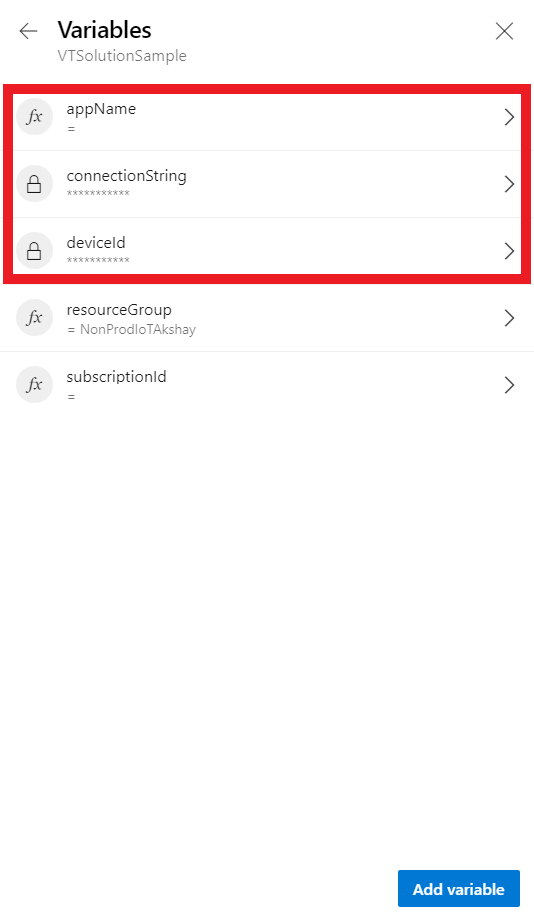
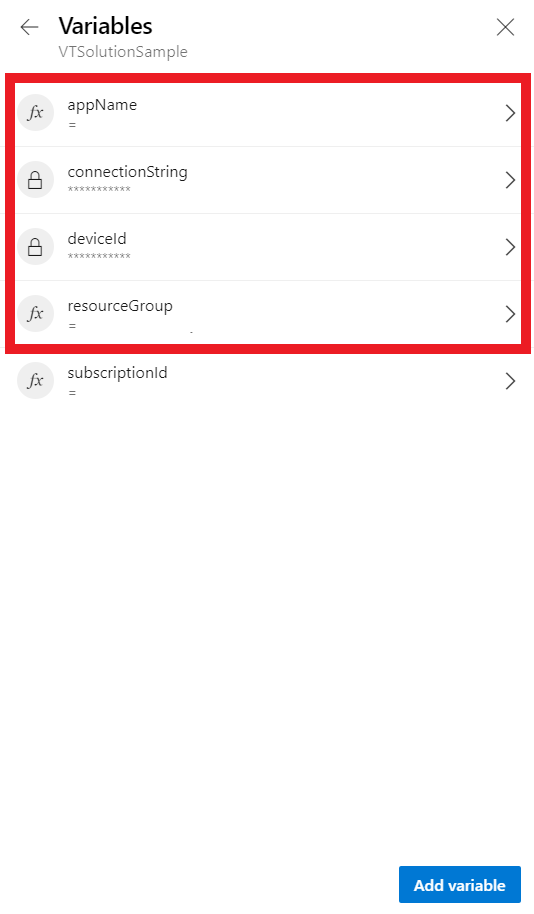
readme fixes

diff --git a/docs/AzurePipeline.md b/docs/AzurePipeline.md
@@ -21,41 +21,37 @@
  
 
 ## Step 1:
-* Navigate to the Solution Sample DevOps URL : https://dev.azure.com/DependableIoT/_git/VTSolutionSample
+* Navigate to the Solution Sample DevOps Pipeline URL : https://dev.azure.com/DependableIoT/VTSolutionSample/_build
 
     > Note: If you do not have access, you can raise a request by contacting Dr. Akshay Nambi
 
 ## Step 2:
-* Navigate to Pipelines -> Pipelines
-    ![Step 2](./media/step1-pipelinetab.png)
-
-## Step 3:
 * Select Pipeline *VTSolutionSample*
-    ![Step 3](./media/step2-selectpipeline.png)
+    ![Step 2](./media/step2-selectpipeline.png)
 
-## Step 4: 
+## Step 3: 
 * You will see a log of Pipeline runs
 * To setup the Solution Sample for your device, click on *Run Pipeline*
     ![Step 4](./media/step3-runpipeline.png)
 
-## Step 5: 
+## Step 4: 
 * Now you have to configure the branch which would be picked up by the pipeline 
 * Select the *master* branch
 
     ![Step 5](./media/step4-selectbranch.png)
 
-## Step 6:
+## Step 5:
 * Now you have to configure the device specific variables for the Solution Sample
 * Select *Variables* under *Advanced Options*
 
     ![Step 6](./media/step4-selectvariables.png)
 
-## Step 7:
+## Step 6:
 * The highlighted variables are the variables you need to configure one by one
 
     ![Step 7](./media/step5-variables.png)
 
-## Step 8:
+## Step 7:
 * Select variable *appName*
 * Update the value to *vt{YourName}solution*
 
@@ -64,7 +60,7 @@
 
     ![Step 8](./media/step6-appName.png)
 
-## Step 9:
+## Step 8:
 * Select variable *connectionString*
 
 * Enter the IoT Hub Connection String that you have saved previously
@@ -73,7 +69,7 @@
 
     ![Step 9](./media/step7-connString.png)
 
-## Step 10:
+## Step 9:
 * Select variable *deviceId*
 
 * Enter the Device ID that you have configured in the Device Sample
@@ -82,37 +78,53 @@
 
     ![Step 10](./media/step8-deviceID.png)
 
+## Step 10:
+* Select variable *resourceGroup*
+
+* Update the value to * NonProdIoT{YourName}*
+
+    > Note: Please try to create a Resource Group in the specified format so that it is easier for us to delete resources after Bug Bash
+
+    > Note: A separate and new Resource Group is required to maintain a custom solution for each user
+
+* Click on *Update*
+
+    ![Step 11](./media/step8.5-resourcegroup.png)
+
 ## Step 11:
 * Now that all variables are configured, click on *Back icon*
 
-    ![Step 11](./media/step9-back.png)
+    ![Step 12](./media/step9-back.png)
+
+    > Note: Ensure that you do not modify or remove the pre-configured subscriptionID variable
 
 ## Step 12:
 * It is time to run the Pipeline with the configured variables
 * Hit *Run* and the pipeline will start setting up your Custom Solution
 
-    ![Step 12](./media/step10-run.png)
+    ![Step 13](./media/step10-run.png)
 
 ## Step 13:
 * After clicking on *Run* Azure Devops will open the monitoring page for the particular Run/Job
 * The pipeline typically takes about 4-5 minutes (worst case around 8 minutes) to complete the setup of your Solution Sample
 * You can see the status of the Job as *Running* and the time taken by the Job next to it
 
-    ![Step 13](./media/step11-inprogress.png)
+    ![Step 14](./media/step11-inprogress.png)
 
 ## Step 14:
 * Wait till the Job is finished
 * When the Job is completed successfully, the status of the Job will turn to *Success*
 * Your Solution Sample is now setup!
 
-    ![Step 14](./media/step12-success.png)
+    ![Step 15](./media/step12-success.png)
 
 ## Step 15:
 * To access the Solution Sample, navigate to http://vt{YourName}solution.southcentralus.azurecontainer.io:3030/
 
     > Note: The URL is dependent on the *appName* that you configured in Step 8 
 
-    ![Step 15](./media/step13-url.png)
+    ![Step 16](./media/step13-url.png)
 
 ## Next Steps:
 * [Navigate to Step 6](https://github.com/Azure/Verified-Telemetry-Solution-Sample#step-6-enter-following-credentials) of the Solution Sample Readme for the Next Steps
+* Please note that the Azure Resources created in this guide would be deleted by the Verified Telemetry Team after Bug Bash concludes

diff --git a/README.md b/README.md
@@ -117,7 +117,7 @@ You can skip the password reset and proceed forward.
 * In order to get VT status for Soil Mositrue 1 telemetry, we should collect a fingerprint template (ideally once).
 * To collect the fingerprint template for the attached sensor 'Soil Moisture 1' telemetry, issue command `Set/Reset Fingerprint Template`
 
-> Note if the fingerprint template is not set for a device, VT status cannot be obtained and will result in telemetry data shown in *red*
+  > Note: If the fingerprint template is not set for a device, VT status cannot be obtained and will result in telemetry data shown in *red*
 
     ![Issue command to setup VT for telemetry soilMoistureExternal1 ](./media/dashboard_reset-1.png)
 
@@ -126,7 +126,7 @@ You can skip the password reset and proceed forward.
 * In order to get VT status for Soil Mositrue 2 telemetry, we should collect a fingerprint template (ideally once).
 * To collect the fingerprint template for the attached sensor 'Soil Moisture 2' telemetry, issue command `Set/Reset Fingerprint Template`
 
-> Note if the fingerprint template is not set for a sensor, VT status cannot be obtained and will result in telemetry data shown in *RED*
+  > Note: If the fingerprint template is not set for a sensor, VT status cannot be obtained and will result in telemetry data shown in *RED*
 
     ![Issue command to setup VT for telemetry soilMoistureExternal2](./media/dashboard_reset-2.png)
 
@@ -142,11 +142,11 @@ You can skip the password reset and proceed forward.
 
 * `Simulate a fauty sensor:` To simulate a faulty sensor, just disconnect Ground Pin (GND) on the Soil Moisture Sensor 2 which would create an Open Port fault!
 
-> We can see that the telemetry data still shows some data, which is typically garbage/dirty. Detecting such data as garbage/faulty is non-trivial and VT automatically detects the faulty sensor and changes the telemetry color to *RED*
+    * We can see that the telemetry data still shows some data, which is typically garbage/dirty. Detecting such data as garbage/faulty is non-trivial and VT automatically detects the faulty sensor and changes the telemetry color to *RED*
    
     ![Fault in telemetry soilMoistureExternal2](media/Grafana-fault.png)
 
-* You can now connect back the Ground Pin to the sensor and see that telemetry color of 'Soil Moisture 2' sensor turning to *GREEN* immediately. 
+    * You can now connect back the Ground Pin to the sensor and see that telemetry color of 'Soil Moisture 2' sensor turning to *GREEN* immediately. 
 
 ## FAQ
 * Q: What happens if the device reboots after collection of Fingerprint Template?
@@ -156,7 +156,8 @@ You can skip the password reset and proceed forward.
       1. State 1: Before Reboot
       2. State 2: After Reboot, BEFORE Digital Twin sync (since no template is found, telemtry status is unknown and shown in RED) 
       2. State 3: After Reboot, AFTER Digital Twin sync (template is synced and telemtry status is verified and shown in GREEN)
-    ![Device Reboot](media/Grafana-reboot.png)
+
+      ![Device Reboot](media/Grafana-reboot.png)
 * Q: What happens if Verified Telmetry is disabled by the property *enableVerifiedTelemetry* ?
     * A: The telemetry status of all telemetries supported by Verified Telemetry go to *false*, indicating that the telemetries are not Verified.
     ![VT Disabled](media/Grafana-disable.png) 
